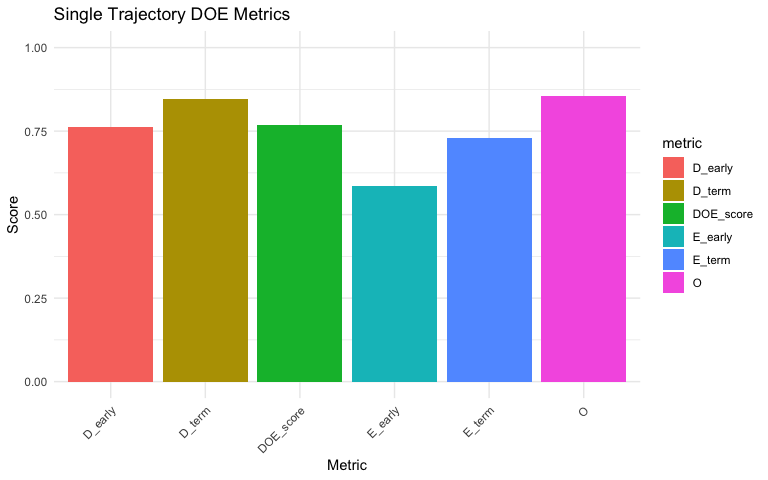
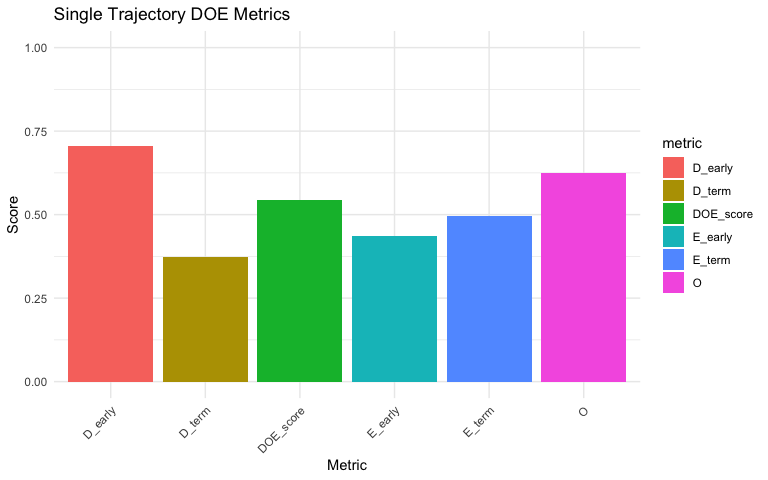
Switch linear-trajectory marker set to SlimR early + MSigDB terminal signature
Replaces the single-source SlimR CD8+ Tn/GZMK+ Tex panel with a marker set
combining SlimR's CD8+ Tn (early) with the MSigDB GSE9650 effector-vs-exhausted
signature (terminal), built via structure() rather than the internal
BioTrajX:::.marker_set() so the pattern stays usable outside the package.
Also drops CD8.CM from the trajectory ordering (now absent from the shipped
cd8t.rds) and re-knits the vignette end-to-end against the refreshed data.

Changed region(s): [[0.0625, 0.1875, 0.8125, 0.5625]]

diff --git a/vignettes/linear-trajectory.md b/vignettes/linear-trajectory.md
@@ -4,9 +4,10 @@ Evaluating Pseudotime Methods with BioTrajX (Linear Datasets)
 This article walks through applying BioTrajX’s DOE metrics to a CD8⁺
 T-cell exhaustion dataset: head and neck squamous cell carcinoma
 tumor-infiltrating and peripheral-blood CD8⁺ T cells (GSE164690),
-annotated with ProjecTILs into five functional states — `CD8.NaiveLike`,
-`CD8.CM`, `CD8.EM`, `CD8.TPEX`, and `CD8.TEX` — that define the expected
-naive-to-exhausted progression. The dataset ships with pseudotime from
+annotated with ProjecTILs into functional states, of which this vignette
+uses four — `CD8.NaiveLike`, `CD8.EM`, `CD8.TPEX`, and `CD8.TEX` — that
+define the expected naive-to-exhausted progression; the dataset’s fifth
+state, `CD8.CM`, is ignored. The dataset ships with pseudotime from
 eight trajectory inference (TI) methods already computed and stored as
 `meta.data` columns, so this vignette starts directly from that
 pre-computed Seurat object rather than re-running any TI method.
@@ -19,22 +20,23 @@ library(Seurat)
 
 cd8t <- readRDS("data/cd8t.rds")
 
-# Order the five states naive-to-exhausted rather than alphabetically, so
-# plots below read low-to-high along the trajectory.
+# Order the states naive-to-exhausted rather than alphabetically, so plots
+# below read low-to-high along the trajectory. CD8.CM is left out of the
+# levels (and so ignored throughout this vignette) rather than ordered in.
 cd8t$functional.cluster <- factor(
   cd8t$functional.cluster,
-  levels = c("CD8.NaiveLike", "CD8.CM", "CD8.EM", "CD8.TPEX", "CD8.TEX")
+  levels = c("CD8.NaiveLike", "CD8.EM", "CD8.TPEX", "CD8.TEX")
 )
 cd8t
 #> An object of class Seurat 
-#> 33545 features across 1942 samples within 1 assay 
+#> 33545 features across 1357 samples within 1 assay 
 #> Active assay: RNA (33545 features, 2000 variable features)
-#>  5 layers present: data, counts, scale.data.1, scale.data.2, scale.data
+#>  3 layers present: data, counts, scale.data
 #>  2 dimensional reductions calculated: pca, umap
 ```
 
-`cd8t$functional.cluster` holds the five ProjecTILs states, and
-`cd8t@meta.data` already has one numeric column per TI method:
+`cd8t$functional.cluster` holds the four ProjecTILs states this vignette
+uses, and `cd8t@meta.data` already has one numeric column per TI method:
 `Slingshot`, `CytoTRACE`, `Monocle3`, `DPT`, `SCORPIUS`, `TSCAN`,
 `PAGA-DPT`, and `Palantir`.
 
@@ -85,37 +87,50 @@ if (requireNamespace("patchwork", quietly = TRUE)) {
 
 BioTrajX scores D and E using an “early” marker set (expected high in
 naive cells) and a “terminal” marker set (expected high in exhausted
-cells). This vignette uses the same curated signatures as the manuscript
-— the `CD8+ Tn` (naive) and `CD8+ GZMK+ Tex` (exhausted) panels from the
-pan-cancer T-cell atlas shipped by the
-[SlimR](https://github.com/zhaoqing-wang/SlimR) package. SlimR is not a
-BioTrajX dependency, so install it separately first:
+cells). This vignette combines two sources into one marker set: the
+`CD8+ Tn` (naive) panel from the pan-cancer T-cell atlas shipped by
+[SlimR](https://github.com/zhaoqing-wang/SlimR) for `early`, and the
+MSigDB signature `GSE9650_EFFECTOR_VS_EXHAUSTED_CD8_TCELL_DN` (pulled
+via `get_markers_msigdb()`) for `terminal`. Neither package is a
+BioTrajX dependency, so install both separately first:
 
 ``` r
 install.packages("SlimR")
+install.packages("msigdbr")
 ```
 
 ``` r
-pctit <- SlimR::Markers_list_PCTIT
+pctit_s9  <- SlimR::Markers_list_PCTIT
+msigdb_s9 <- get_markers_msigdb(
+  early      = "GSE9650_EFFECTOR_VS_EXHAUSTED_CD8_TCELL_DN",
+  terminal   = "GSE9650_EFFECTOR_VS_EXHAUSTED_CD8_TCELL_DN",
+  collection = NULL,
+  species    = "Homo sapiens"
+)
 
-# filter_markers() dispatches on class "marker_set" — tag the SlimR lists as
-# one so they get the same detection-rate filtering get_markers_*() output does.
-ms <- structure(
-  list(early    = pctit[["CD8+ Tn"]]$Markers,
-       terminal = pctit[["CD8+ GZMK+ Tex"]]$Markers,
-       source   = "SlimR_PCTIT",
-       metadata = list()),
+# Combine the SlimR "early" panel with the MSigDB "terminal" signature into one
+# marker_set. filter_markers() only dispatches on the class, so building it by
+# hand with structure() — rather than the internal, unexported
+# BioTrajX:::.marker_set() — works identically to a get_markers_*() result.
+ms_s9 <- structure(
+  list(early    = pctit_s9[["CD8+ Tn"]]$Markers,
+       terminal = msigdb_s9$terminal,
+       source   = "SlimR_PCTIT + MSigDB",
+       metadata = list(early_set    = "CD8+ Tn",
+                        terminal_set = "GSE9650_EFFECTOR_VS_EXHAUSTED_CD8_TCELL_DN")),
   class = "marker_set"
 )
 
-filtered <- filter_markers(ms, cd8t, top_n = NULL, min_detection = 0.10)
-early_markers    <- filtered$early
-terminal_markers <- filtered$terminal
+ms_s9 <- filter_markers(ms_s9, cd8t, top_n = NULL, min_detection = 0.10)
+early_markers    <- ms_s9$early
+terminal_markers <- ms_s9$terminal
+c(early_markers = length(early_markers), terminal_markers = length(terminal_markers))
+#>    early_markers terminal_markers 
+#>               20               23
 ```
 
-`get_markers_msigdb()` and `get_markers_cellmarker()` are available as
-alternative, database-backed sources of early/terminal marker genes if
-you’d rather not depend on SlimR.
+`get_markers_cellmarker()` is available as another database-backed
+source of marker genes if you’d rather not depend on SlimR or msigdbr.
 
 ## 4. Evaluate a single pseudotime trajectory
 
@@ -134,7 +149,7 @@ res_single <- compute_single_doe_linear(
 )
 
 res_single$DOE_score
-#> [1] 0.7697032
+#> [1] 0.5432022
 plot(res_single, type = "bar")
 ```
 
@@ -192,38 +207,38 @@ res <- compute_multi_doe_linear(
 #> 
 #> ==========================================================
 #> Multi-trajectory DOE analysis complete!
-#> Best trajectory: SCORPIUS (DOE score: 0.789)
+#> Best trajectory: TSCAN (DOE score: 0.598)
 
 res$comparison_summary
 #>   trajectory   D_early    D_term    D_comp         O O_orientation   E_early
-#> 1   SCORPIUS 0.7680069 0.8713326 0.8196698 0.8979655             + 0.5493827
-#> 2   Palantir 0.7647302 0.8356365 0.8001833 0.9076004             + 0.5781893
-#> 3      TSCAN 0.7651012 0.8498823 0.8074917 0.8952219             + 0.5367483
-#> 4  CytoTRACE 0.8072178 0.7958930 0.8015554 0.9192523             + 0.5925926
-#> 5   Monocle3 0.7623016 0.8462281 0.8042648 0.8542853             + 0.5864198
-#> 6   PAGA-DPT 0.7679280 0.8445120 0.8062200 0.8468488             + 0.5534979
-#> 7  Slingshot 0.7724571 0.8329140 0.8026855 0.5507964             + 0.5740741
-#> 8        DPT 0.7826816 0.8499346 0.8163081 0.4920760             + 0.5534979
+#> 1      TSCAN 0.7070410 0.4508281 0.5789345 0.7297995             + 0.4342105
+#> 2   Monocle3 0.7053013 0.3740680 0.5396846 0.6257121             + 0.4365782
+#> 3   PAGA-DPT 0.6922741 0.2850180 0.4886460 0.6530323             + 0.3716814
+#> 4  CytoTRACE 0.7840763 0.1918649 0.4879706 0.6114504             + 0.4867257
+#> 5  Slingshot 0.7189100 0.3226085 0.5207593 0.4716572             + 0.4336283
+#> 6   Palantir 0.6088216 0.1992569 0.4040393 0.6275072             + 0.3392330
+#> 7   SCORPIUS 0.7148566 0.2755311 0.4951938 0.5421092             + 0.3864307
+#> 8        DPT 0.7308194 0.3092885 0.5200540 0.2625789             + 0.4129794
 #>      E_term    E_comp DOE_score has_error D_early_rank D_term_rank D_comp_rank
-#> 1 0.7901235 0.6481197 0.7885850     FALSE            4           1           1
-#> 2 0.7181070 0.6405970 0.7827936     FALSE            7           6           8
-#> 3 0.7572383 0.6282080 0.7769739     FALSE            6           3           3
-#> 4 0.5987654 0.5956630 0.7721569     FALSE            1           8           7
-#> 5 0.7304527 0.6505594 0.7697032     FALSE            8           4           5
-#> 6 0.7613169 0.6409835 0.7646841     FALSE            5           5           4
-#> 7 0.7448560 0.6484082 0.6672967     FALSE            3           7           6
-#> 8 0.7345679 0.6313060 0.6465634     FALSE            2           2           2
+#> 1 0.5526316 0.4863158 0.5983500     FALSE            5           1           1
+#> 2 0.4955752 0.4642097 0.5432022     FALSE            6           2           2
+#> 3 0.5162242 0.4321877 0.5246220     FALSE            7           5           6
+#> 4 0.3156342 0.3829386 0.4941199     FALSE            1           8           7
+#> 5 0.5103245 0.4688606 0.4870924     FALSE            3           3           3
+#> 6 0.5132743 0.4084882 0.4800115     FALSE            8           7           8
+#> 7 0.3008850 0.3383342 0.4585457     FALSE            4           6           5
+#> 8 0.4867257 0.4468301 0.4098210     FALSE            2           4           4
 #>   O_rank E_early_rank E_term_rank E_comp_rank DOE_score_rank
-#> 1      3            7           1           3              1
-#> 2      2            3           7           5              2
-#> 3      4            8           3           7              3
-#> 4      1            1           8           8              4
-#> 5      5            2           6           1              5
-#> 6      6            5           2           4              6
-#> 7      7            4           4           2              7
-#> 8      8            5           5           6              8
+#> 1      1            3           1           1              1
+#> 2      4            2           5           3              2
+#> 3      2            7           2           5              3
+#> 4      5            1           7           7              4
+#> 5      7            4           4           2              5
+#> 6      3            8           3           6              6
+#> 7      6            6           8           8              7
+#> 8      8            5           6           4              8
 res$best_trajectory
-#> [1] "SCORPIUS"
+#> [1] "TSCAN"
 plot(res, type = "bar")
 ```
 
@@ -334,8 +349,8 @@ data.frame(
   DOE_score = c(res_root_naive$DOE_score, res_root_tex$DOE_score)
 )
 #>                     root DOE_score
-#> 1 CD8.NaiveLike centroid 0.7307730
-#> 2       CD8.TEX centroid 0.2755454
+#> 1 CD8.NaiveLike centroid 0.5432022
+#> 2       CD8.TEX centroid 0.1983723
 ```
 
 Rooting Monocle3 at the exhausted end rather than the naive end lowers
